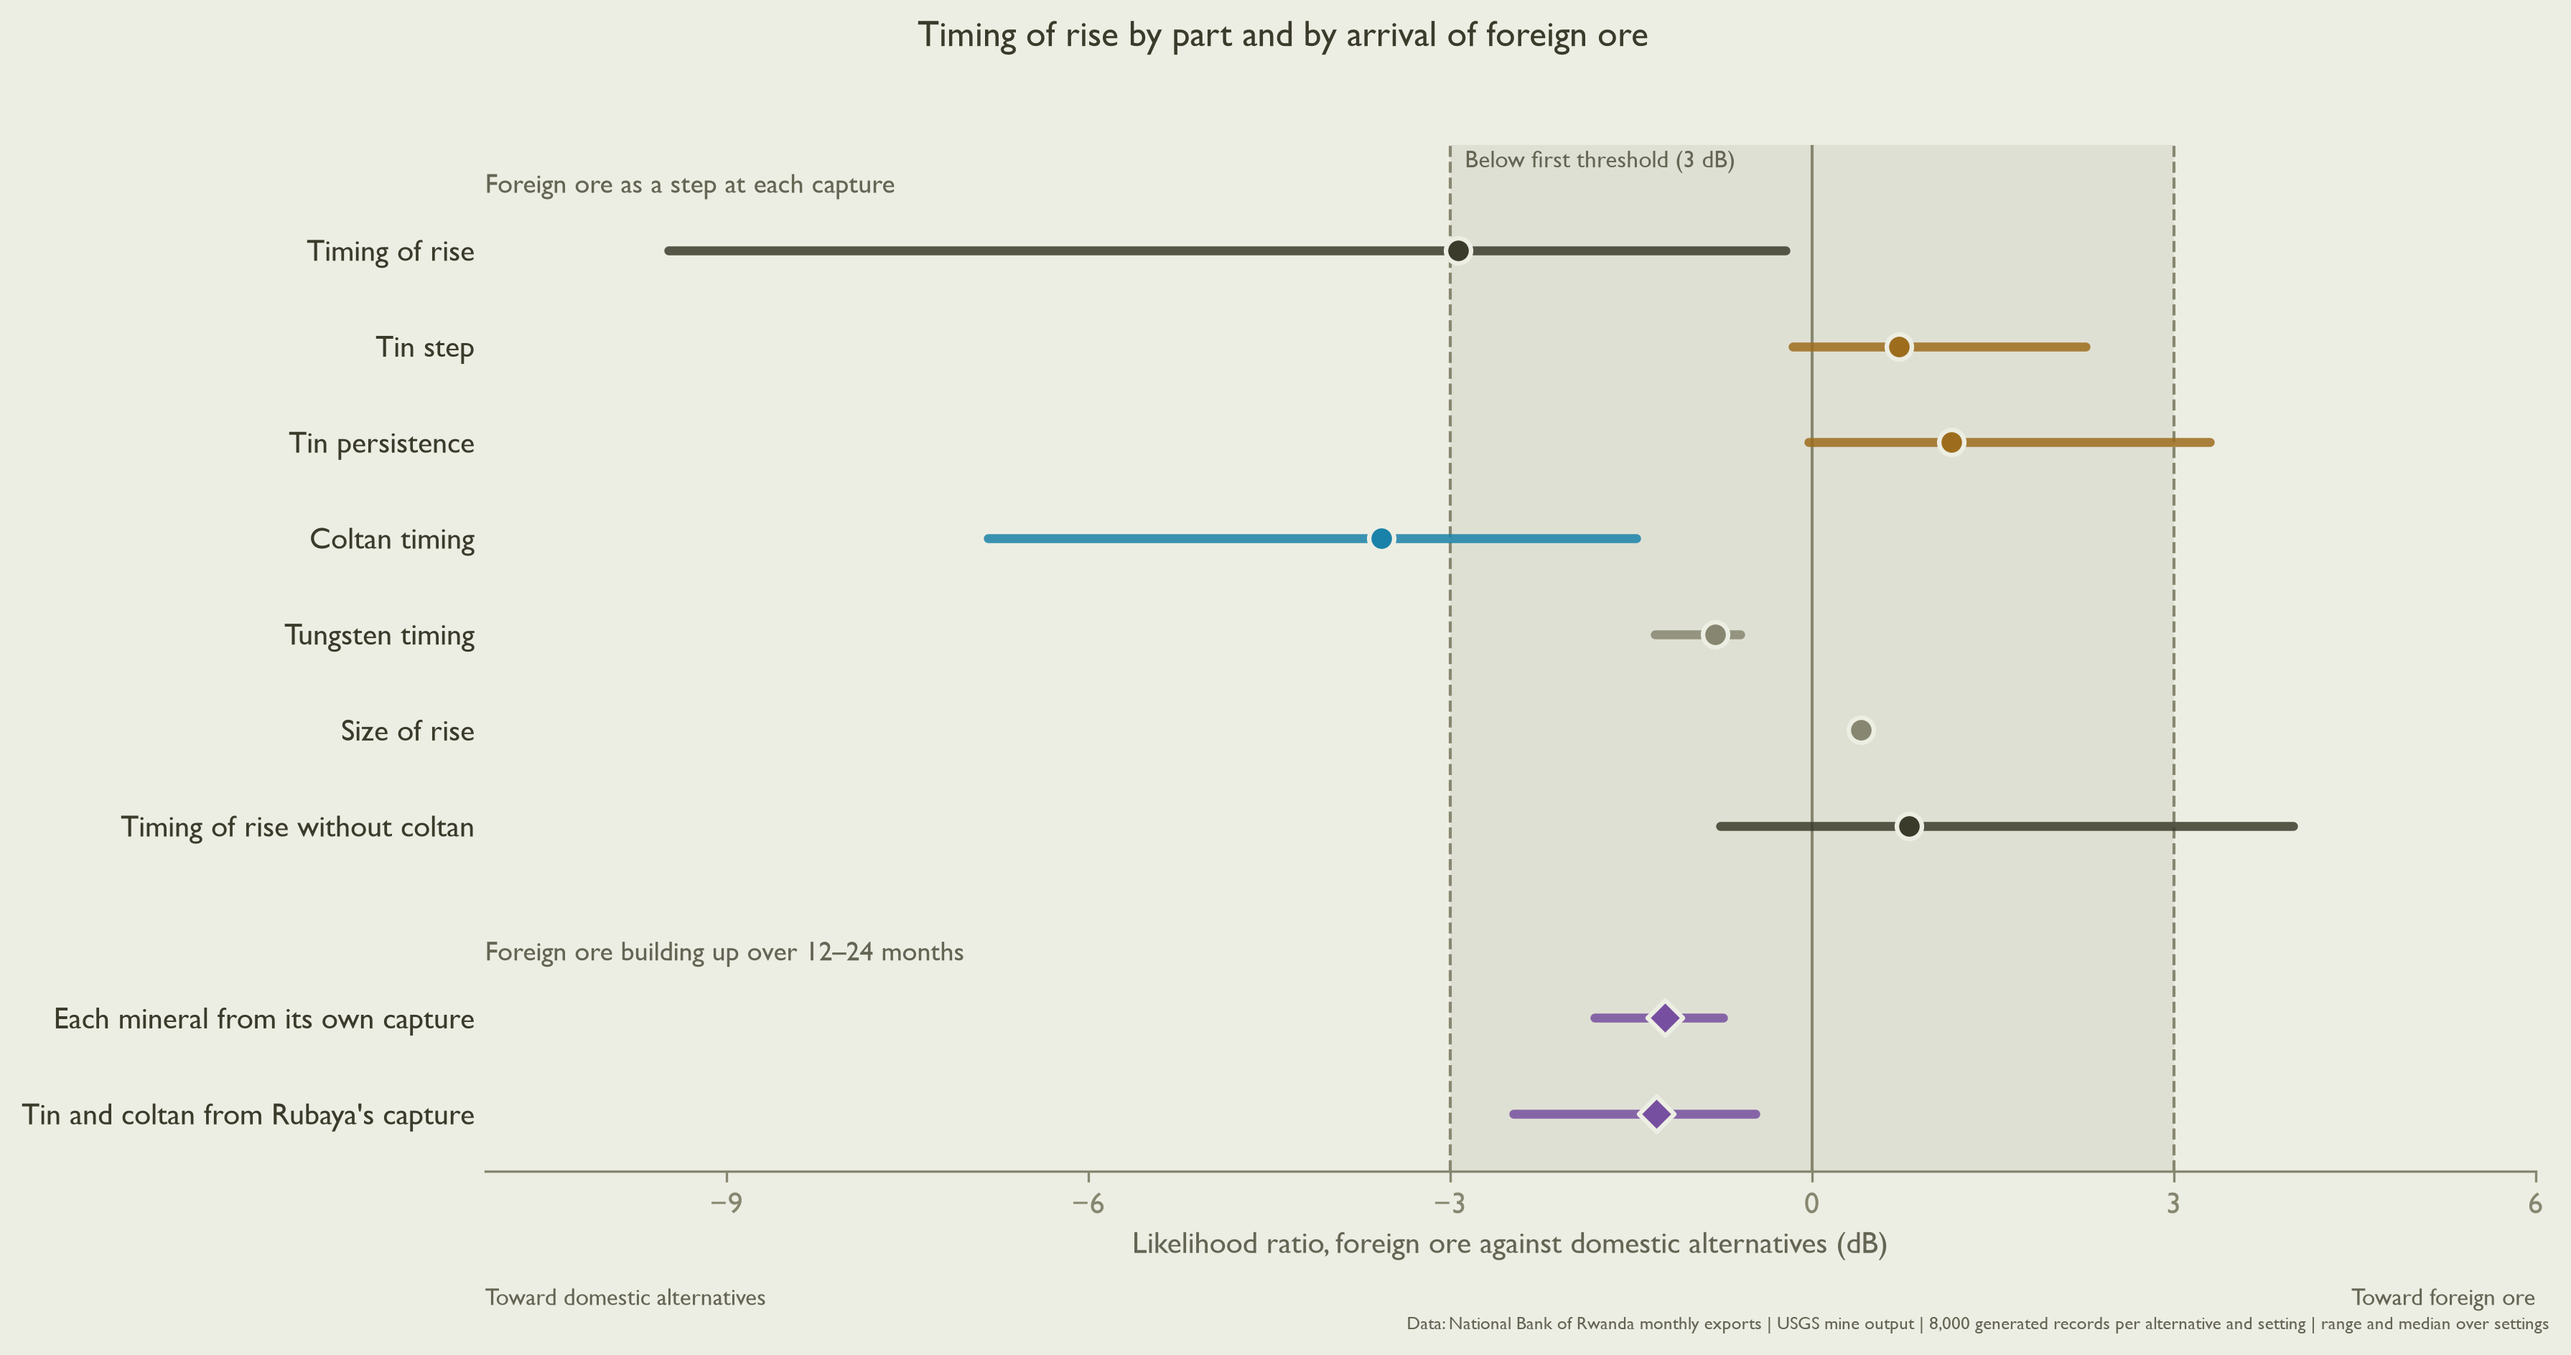
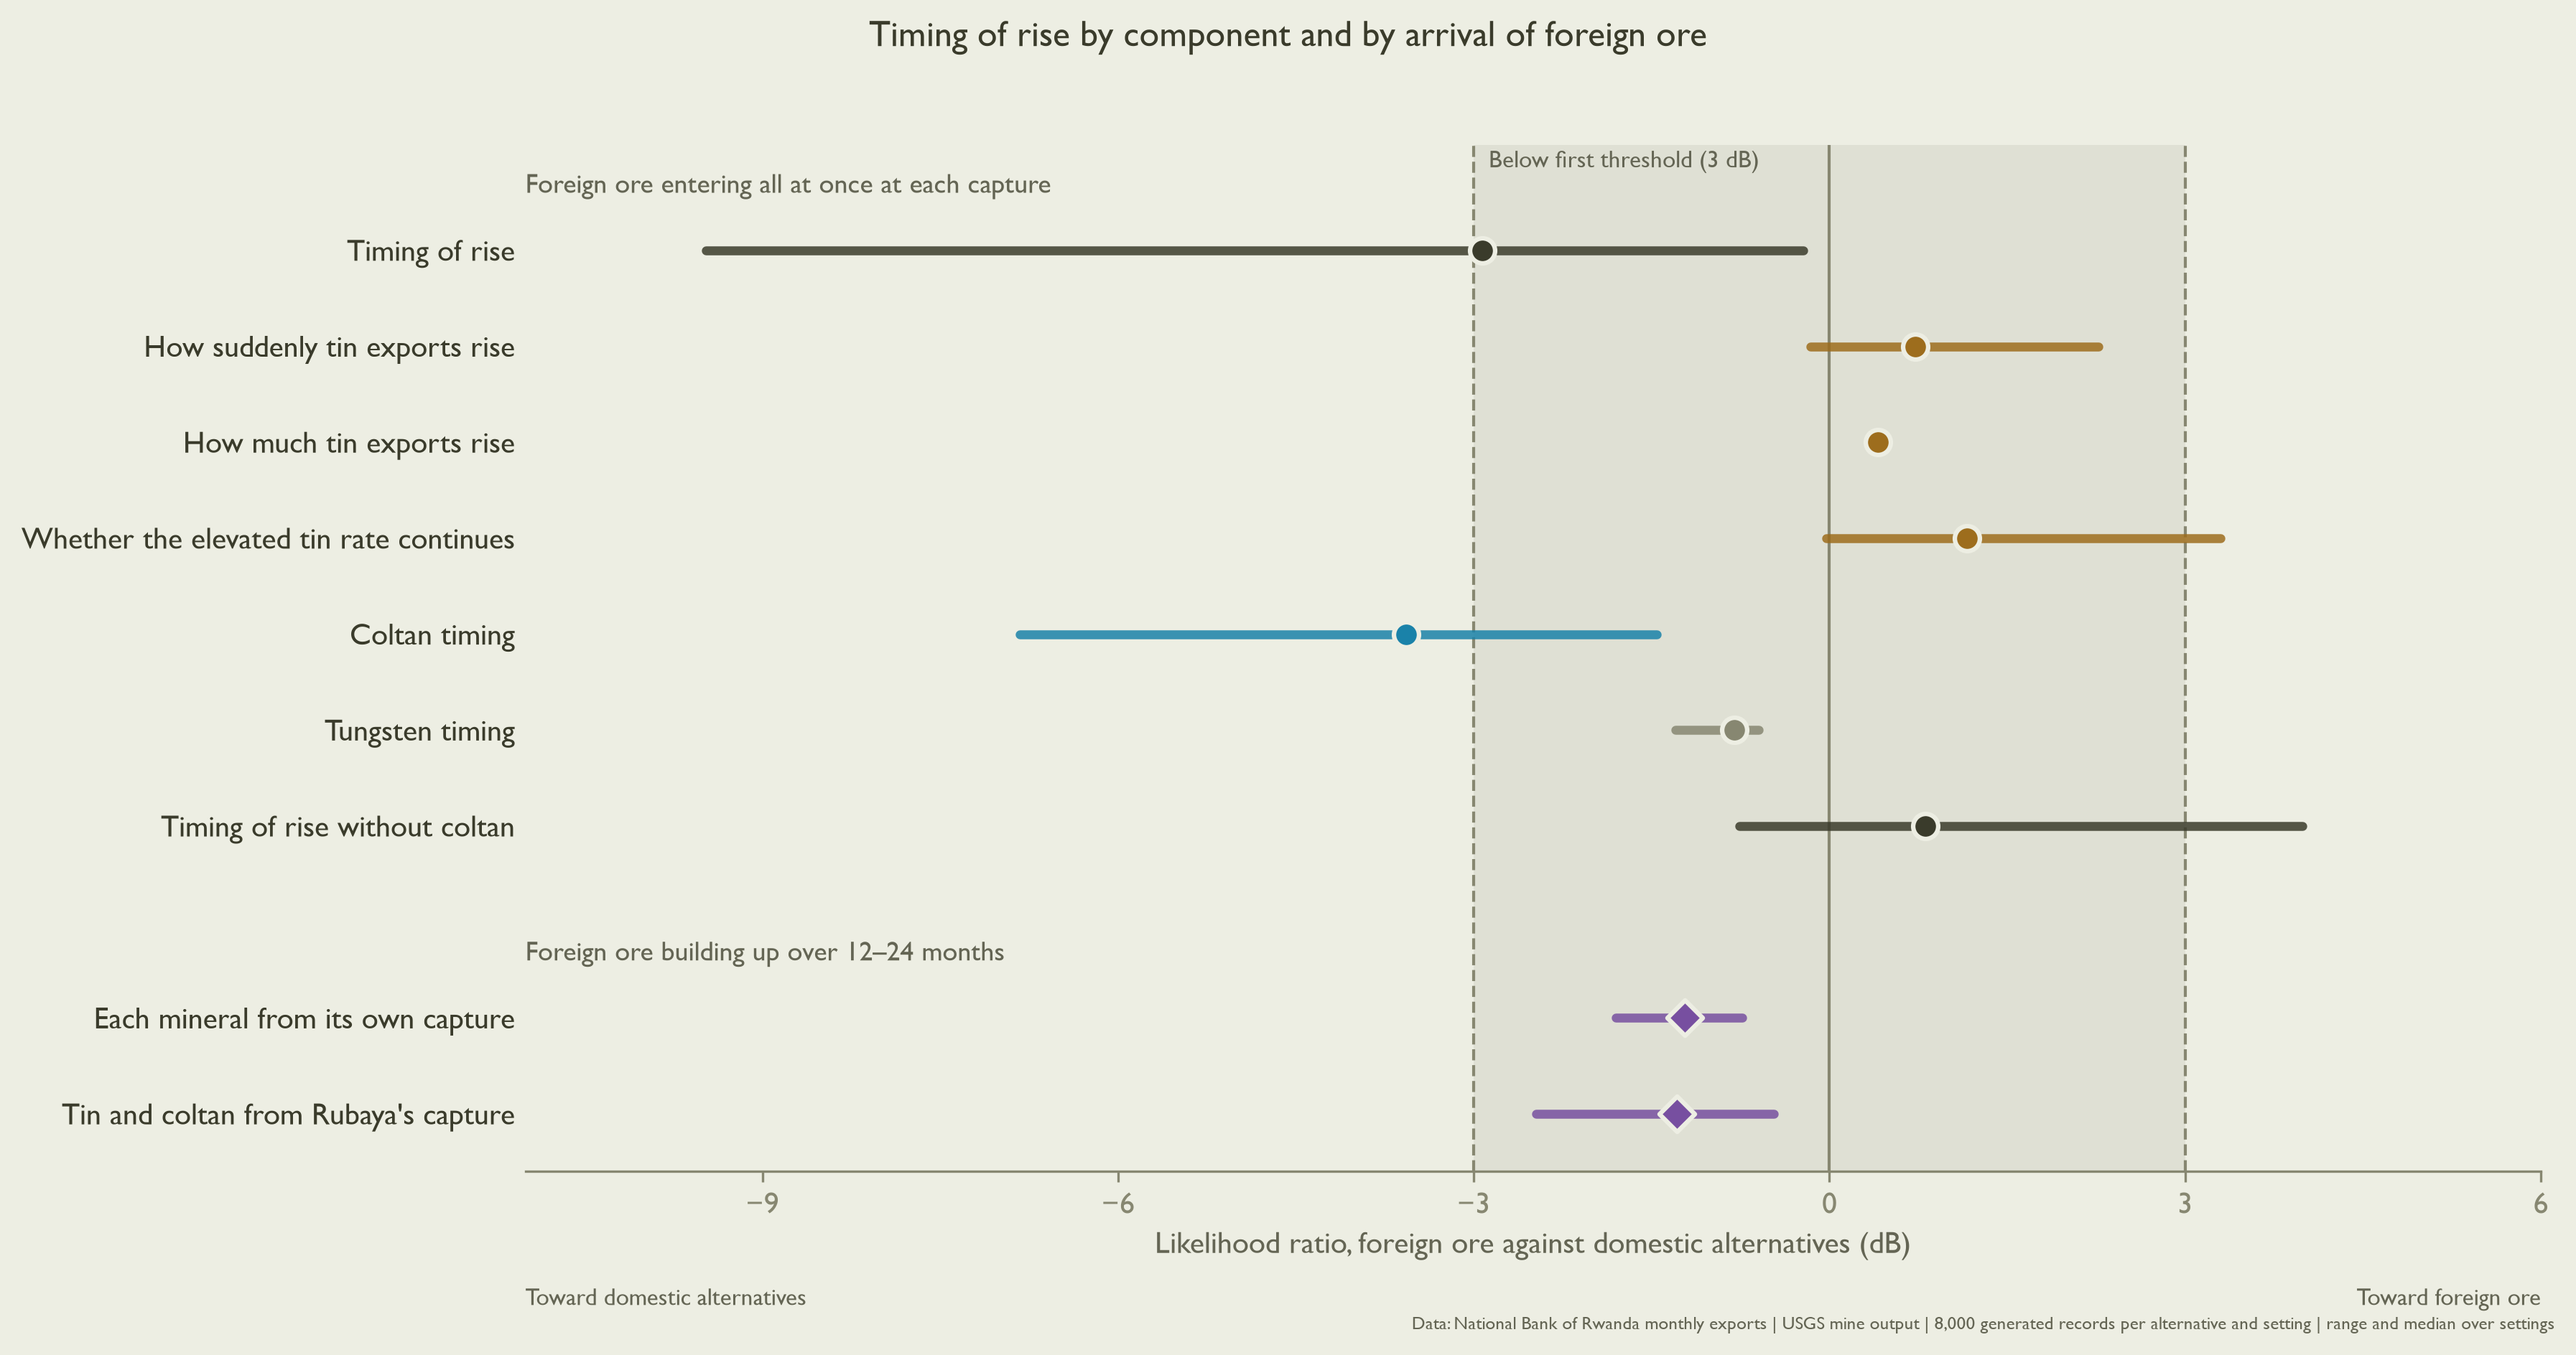
tin_rival_weighing: Figure 8 rebuilt with component labels matching the L223 paragraph (size row moved beside tin rows, gold; no 'step'/'part'); Table 2 and Table A3 drop 'step'/'parts'; owner edit at L225 (tungsten possessive, 'the domestic alternatives', 'coltan ore'); render

diff --git a/docs/work/tin_rival_weighing/tin_rival_weighing.html b/docs/work/tin_rival_weighing/tin_rival_weighing.html
@@ -488,7 +488,7 @@ Table&nbsp;2: Which public records could separate foreign ore from the domestic 
 </thead>
 <tbody>
 <tr class="odd">
-<td>Timing of the rise (parts: tin step†, tin persistence†, size of rise†, coltan and tungsten timing)</td>
+<td>Timing of the rise (components: how suddenly tin exports rise†, how much they rise†, whether the elevated tin rate continues†, coltan and tungsten timing)</td>
 <td>All five domestic alternatives</td>
 <td>−0.2 to −9.5 dB, toward the domestic alternatives; short of the first threshold at the cautious end</td>
 </tr>
@@ -523,8 +523,8 @@ Table&nbsp;2: Which public records could separate foreign ore from the domestic 
 </figure>
 </div>
 <p>Only the timing of the rise differs between foreign ore and the domestic alternatives. Under the domestic alternatives the rise is more likely. At the cautious end, foreign ore and domestic alternatives are almost even, below the first threshold (<a href="#fig-timing" class="quarto-xref">Figure&nbsp;8</a>).</p>
-<p>In <a href="#fig-timing" class="quarto-xref">Figure&nbsp;8</a>, the three components that concern tin are each more likely under foreign ore at the median setting, though less than twice as likely. They measure how suddenly declared tin exports rise after February 2025, how much they rise, and whether they stay high into 2026.</p>
-<p>The difference comes from coltan. Tungsten’s timing is also consistent with domestic alternatives, though less so. If Rubaya’s ore enters Rwanda at once, Rwanda’s declared coltan exports would rise suddenly soon after. But coltan exports do not suddenly rise in May 2024. They rise only later, and gradually (<a href="#fig-coltan" class="quarto-xref">Figure&nbsp;7</a>).</p>
+<p>In <a href="#fig-timing" class="quarto-xref">Figure&nbsp;8</a>, the three components that concern tin are each more likely under foreign ore at the median setting, though less than twice as likely. They measure how suddenly declared tin exports rise after February 2025, how much they rise, and whether this elevated rate continues into 2026.</p>
+<p>The difference comes from coltan. The timing of declared tungsten exports is also consistent with the domestic alternatives, though less so. If Rubaya’s coltan ore enters Rwanda at once, Rwanda’s declared coltan exports would rise suddenly soon after. But coltan exports do not suddenly rise in May 2024. They rise only later, and gradually (<a href="#fig-coltan" class="quarto-xref">Figure&nbsp;7</a>).</p>
 <p>That interpretation assumes foreign ore enters declared exports all at once. Ore held, blended or declared over months would enter gradually. Under a build-up of one to two years, no setting of the simulation reaches the first threshold (<a href="#fig-timing" class="quarto-xref">Figure&nbsp;8</a>).</p>
 <div id="fig-coltan" class="quarto-float quarto-figure quarto-figure-center anchored" alt="Bar chart of the central bank's monthly coltan exports in tonnes, January 2023 to August 2026. A dashed line at May 2024 marks Rubaya's capture on 30 April 2024. Bars stay between about 115 and 260 t a month through 2024 and early 2025, rise from mid-2025, and reach about 720 t in August 2026.">
 <figure class="quarto-float quarto-float-fig figure">
@@ -731,7 +731,7 @@ Table&nbsp;5: Instrument checks on the simulations behind Section 6, run before 
 </tr>
 <tr class="odd">
 <td>Zero size: with no foreign ore planted, each pair of alternatives scores 0 dB</td>
-<td>Every domestic alternative writes a gradual rise and foreign ore a step, so the pairwise scores lean against foreign ore</td>
+<td>Every domestic alternative writes a gradual rise and foreign ore a sudden rise, so the pairwise scores lean against foreign ore</td>
 <td>Fails. Pairwise scores are dropped; foreign ore is scored against the domestic alternatives as one group</td>
 </tr>
 <tr class="even">

diff --git a/work/tin_rival_weighing/tin_rival_weighing.md b/work/tin_rival_weighing/tin_rival_weighing.md
@@ -207,22 +207,22 @@ In this case records repeat the same initial declarations, whichever alternative
 > 3. For each record, ask how much more often it would occur under one alternative than under another.
 > 4. Decide the threshold criteria before scoring. Before including a new source, simulate whether it can meet your thresholds.
 
-| Record                                                                                             | Separates foreign ore from             | Result                                                                                              |
-| -------------------------------------------------------------------------------------------------- | -------------------------------------- | --------------------------------------------------------------------------------------------------- |
-| Timing of the rise (parts: tin step†, tin persistence†, size of rise†, coltan and tungsten timing) | All five domestic alternatives         | −0.2 to −9.5 dB, toward the domestic alternatives; short of the first threshold at the cautious end |
-| Cross-border declarations                                                                          | All domestic but a recording error     | 0 dB. No such field in 2025: no importer gives a consignment country for DRC ore                    |
-| Satellite, DRC sites                                                                               | All domestic but a recording error     | Not run. Power limit of the national test; a site-level test is untested, not run due to cost       |
-| Satellite, Rwanda                                                                                  | Registered and unregistered mines only | Not run. Power limit: reaches 3 dB in at most 3.1% of simulated datasets                            |
-| Field and third-party records                                                                      | Not known until requested              | Not run. Not public; not requested                                                                  |
-| Imported residues†, largest miner's output†, records agreement†, persistence†                      | None                                   | Read, not scored: each narrows a domestic alternative only                                          |
+| Record                                                                                                                                                     | Separates foreign ore from             | Result                                                                                              |
+| ---------------------------------------------------------------------------------------------------------------------------------------------------------- | -------------------------------------- | --------------------------------------------------------------------------------------------------- |
+| Timing of the rise (components: how suddenly tin exports rise†, how much they rise†, whether the elevated tin rate continues†, coltan and tungsten timing) | All five domestic alternatives         | −0.2 to −9.5 dB, toward the domestic alternatives; short of the first threshold at the cautious end |
+| Cross-border declarations                                                                                                                                  | All domestic but a recording error     | 0 dB. No such field in 2025: no importer gives a consignment country for DRC ore                    |
+| Satellite, DRC sites                                                                                                                                       | All domestic but a recording error     | Not run. Power limit of the national test; a site-level test is untested, not run due to cost       |
+| Satellite, Rwanda                                                                                                                                          | Registered and unregistered mines only | Not run. Power limit: reaches 3 dB in at most 3.1% of simulated datasets                            |
+| Field and third-party records                                                                                                                              | Not known until requested              | Not run. Not public; not requested                                                                  |
+| Imported residues†, largest miner's output†, records agreement†, persistence†                                                                              | None                                   | Read, not scored: each narrows a domestic alternative only                                          |
 
 : Which public records could separate foreign ore from the domestic alternatives, and what each found. Values are in decibels, ten times the base-10 logarithm of the likelihood ratio.[@good1985] 3 dB is about twice as likely, 10 dB ten times. Negative values are more likely under the domestic alternatives. † Read before the alternatives were written down. In a Bayesian weighing, the order in which evidence is read does not change the result.[@fairfield2017, sec. 3.3.4] {#tbl-records}
 
-Only the timing of the rise differs between foreign ore and the domestic alternatives. Under the domestic alternatives the rise is more likely. At the cautious end, foreign ore and domestic alternatives are almost even, below the first threshold (@fig-timing). 
+Only the timing of the rise differs between foreign ore and the domestic alternatives. Under the domestic alternatives the rise is more likely. At the cautious end, foreign ore and the domestic alternatives are almost even, below the first threshold (@fig-timing). 
 
 In @fig-timing, the three components that concern tin are each more likely under foreign ore at the median setting, though less than twice as likely. They measure how suddenly declared tin exports rise after February 2025, how much they rise, and whether this elevated rate continues into 2026.
 
-The difference comes from coltan. Tungsten's timing is also consistent with domestic alternatives, though less so. If Rubaya's ore enters Rwanda at once, Rwanda's declared coltan exports would rise suddenly soon after. But coltan exports do not suddenly rise in May 2024. They rise only later, and gradually (@fig-coltan).
+The difference comes from coltan. The timing of declared tungsten exports is also consistent with the domestic alternatives, though less so. If Rubaya's coltan ore enters Rwanda at once, Rwanda's declared coltan exports would rise suddenly soon after. But coltan exports do not suddenly rise in May 2024. They rise only later, and gradually (@fig-coltan).
 
 That interpretation assumes foreign ore enters declared exports all at once. Ore held, blended or declared over months would enter gradually. Under a build-up of one to two years, no setting of the simulation reaches the first threshold (@fig-timing).
 
@@ -301,7 +301,7 @@ It does not appear that any national entity records site-level figures. On 2 Apr
 | ----------------------------------------------------------------------------- | ------------------------------------------------------------------------------------------------------------------------------- | -------------------------------------------------------------------------------------------------------- |
 | Reliability: predicted against observed likelihood, held-out generator family | 0.04 predicted, 0.05 observed in the lowest bin; 0.96 predicted, 0.91 observed in the highest                                   | Passes                                                                                                   |
 | Detection: score rises with the share of foreign ore planted                  | Median −6.1 to −6.6 dB with no foreign ore; +2.1 to +2.3 dB with half the rise foreign; +7.5 to +10.3 dB with all of it foreign | Passes                                                                                                   |
-| Zero size: with no foreign ore planted, each pair of alternatives scores 0 dB | Every domestic alternative writes a gradual rise and foreign ore a step, so the pairwise scores lean against foreign ore        | Fails. Pairwise scores are dropped; foreign ore is scored against the domestic alternatives as one group |
+| Zero size: with no foreign ore planted, each pair of alternatives scores 0 dB | Every domestic alternative writes a gradual rise and foreign ore a sudden rise, so the pairwise scores lean against foreign ore | Fails. Pairwise scores are dropped; foreign ore is scored against the domestic alternatives as one group |
 | Group check: foreign ore against the domestic alternatives as one group       | Median +5.1 to +5.8 dB with foreign ore true; −5.5 to −6.8 dB with a domestic alternative true                                  | Passes                                                                                                   |
 
 : Instrument checks on the simulations behind Section 6, run before the case was scored. {#tbl-a3}
